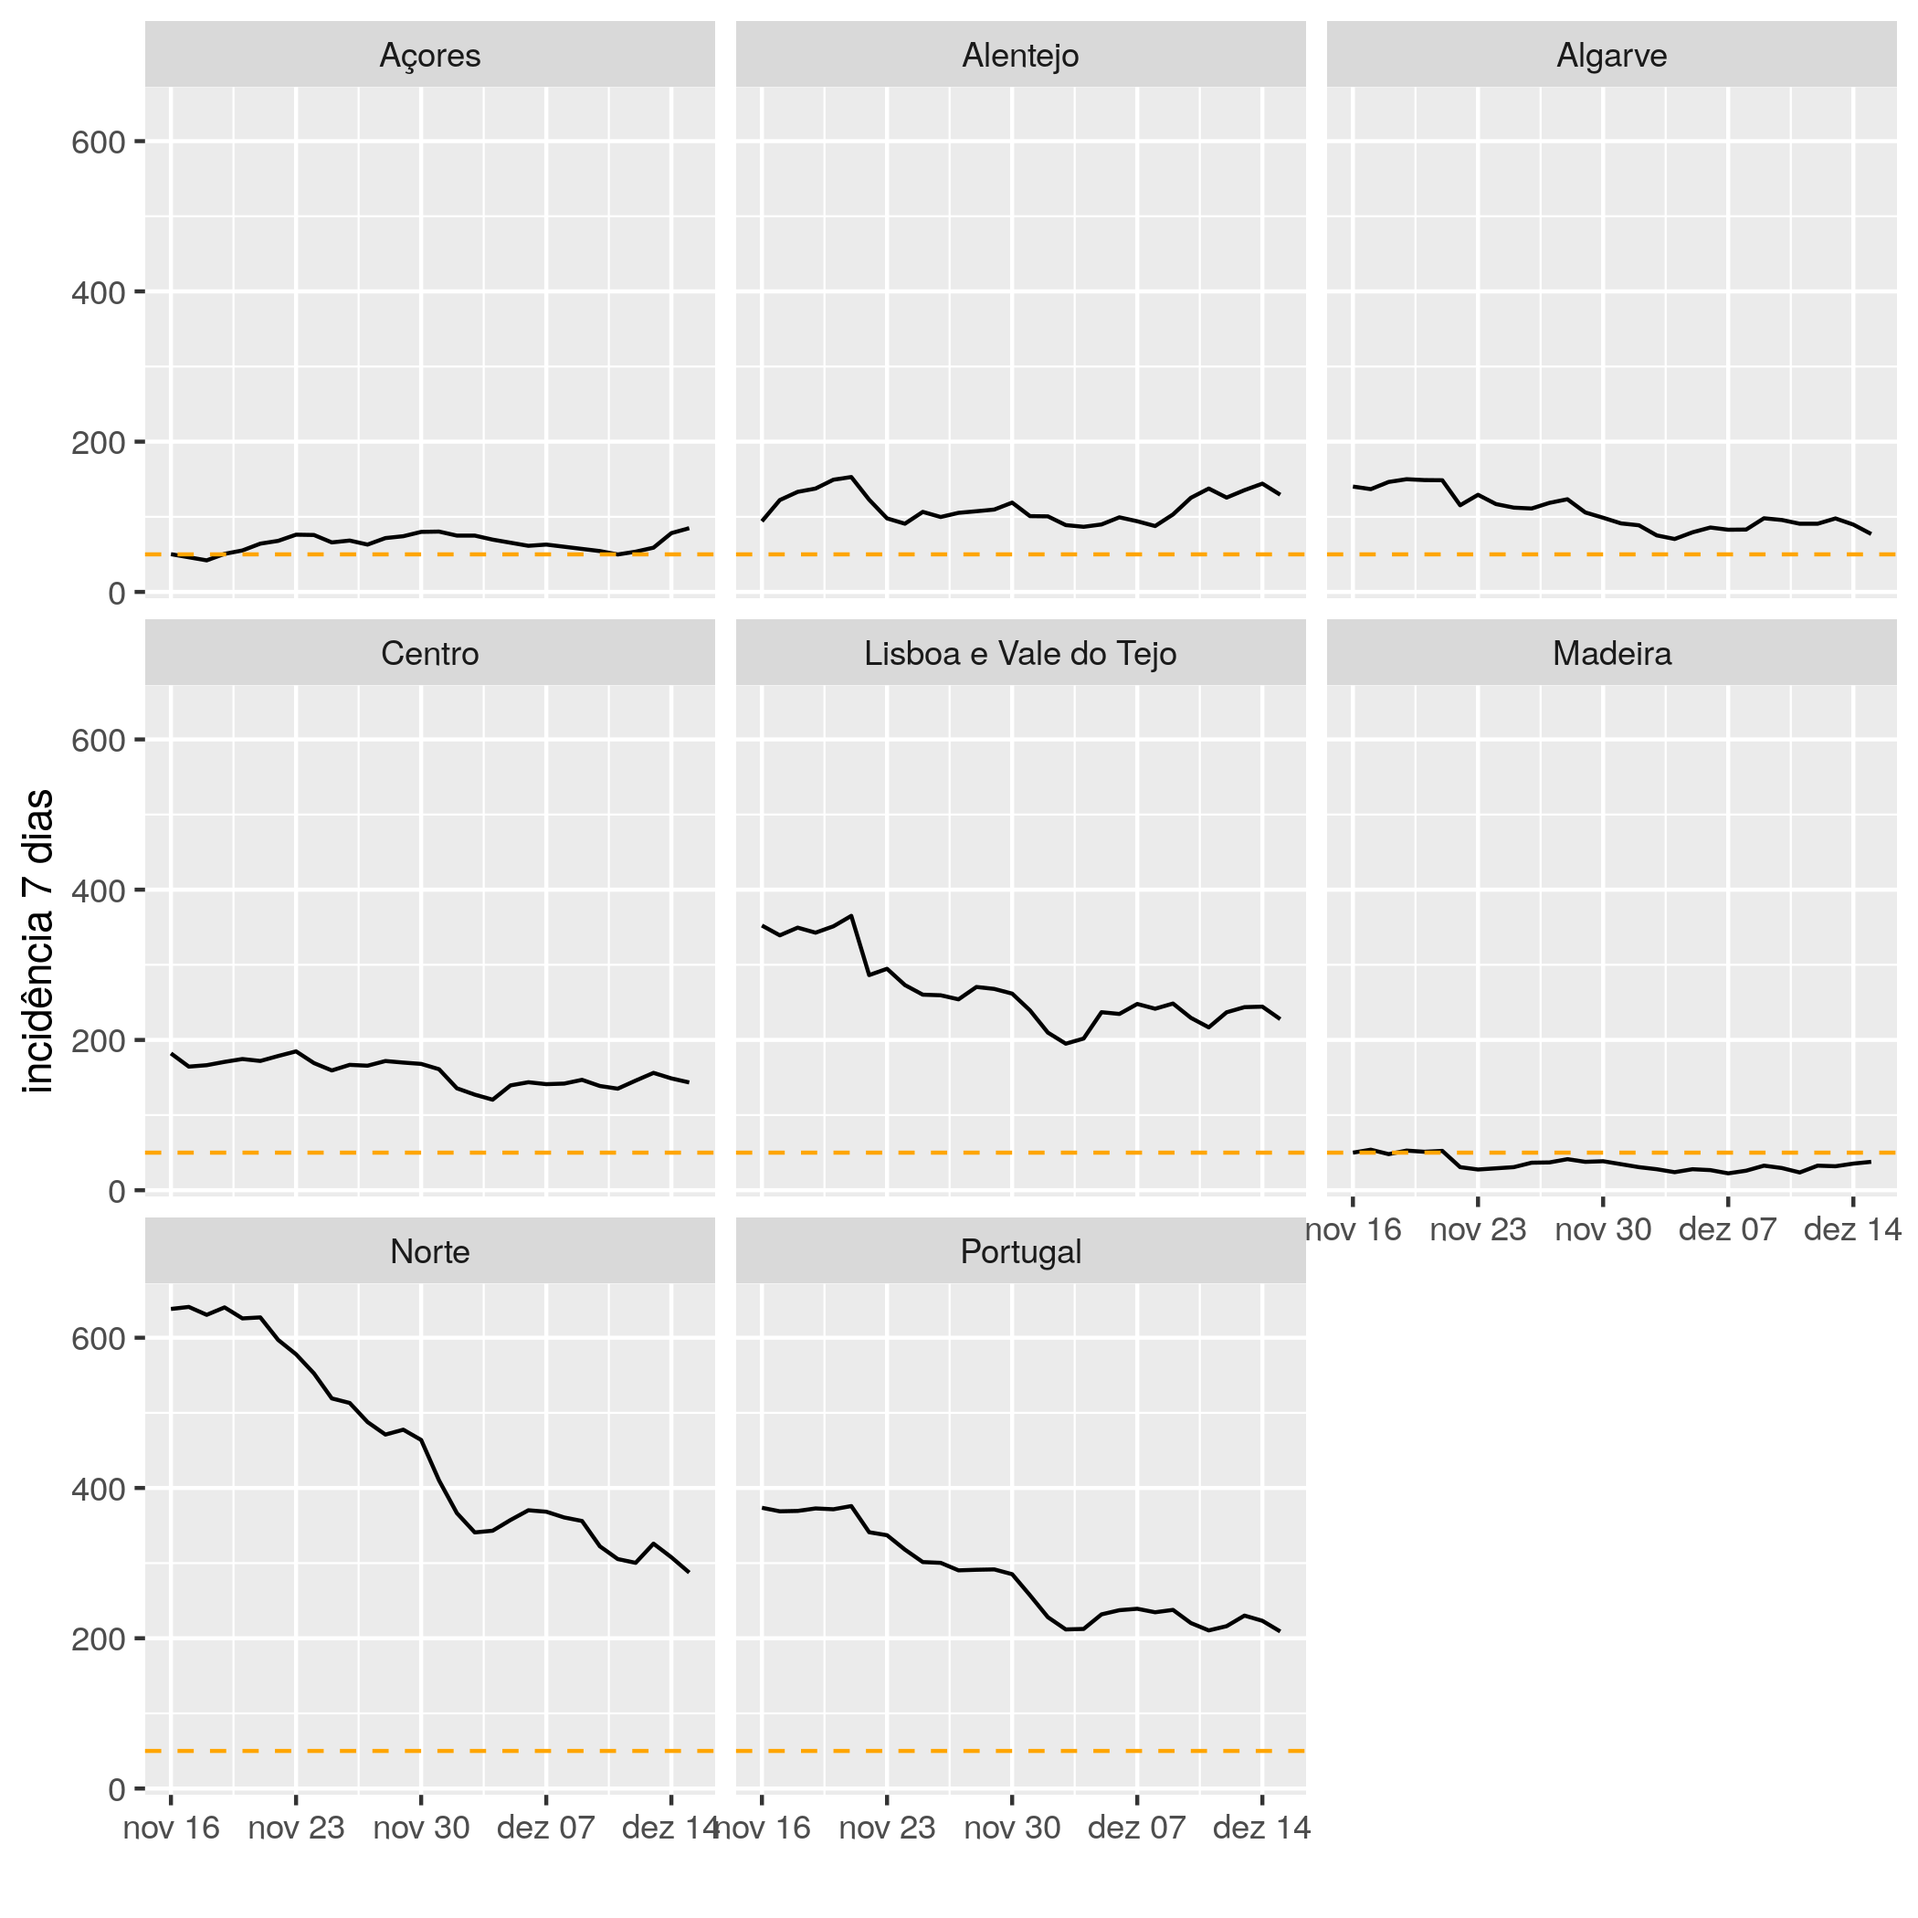
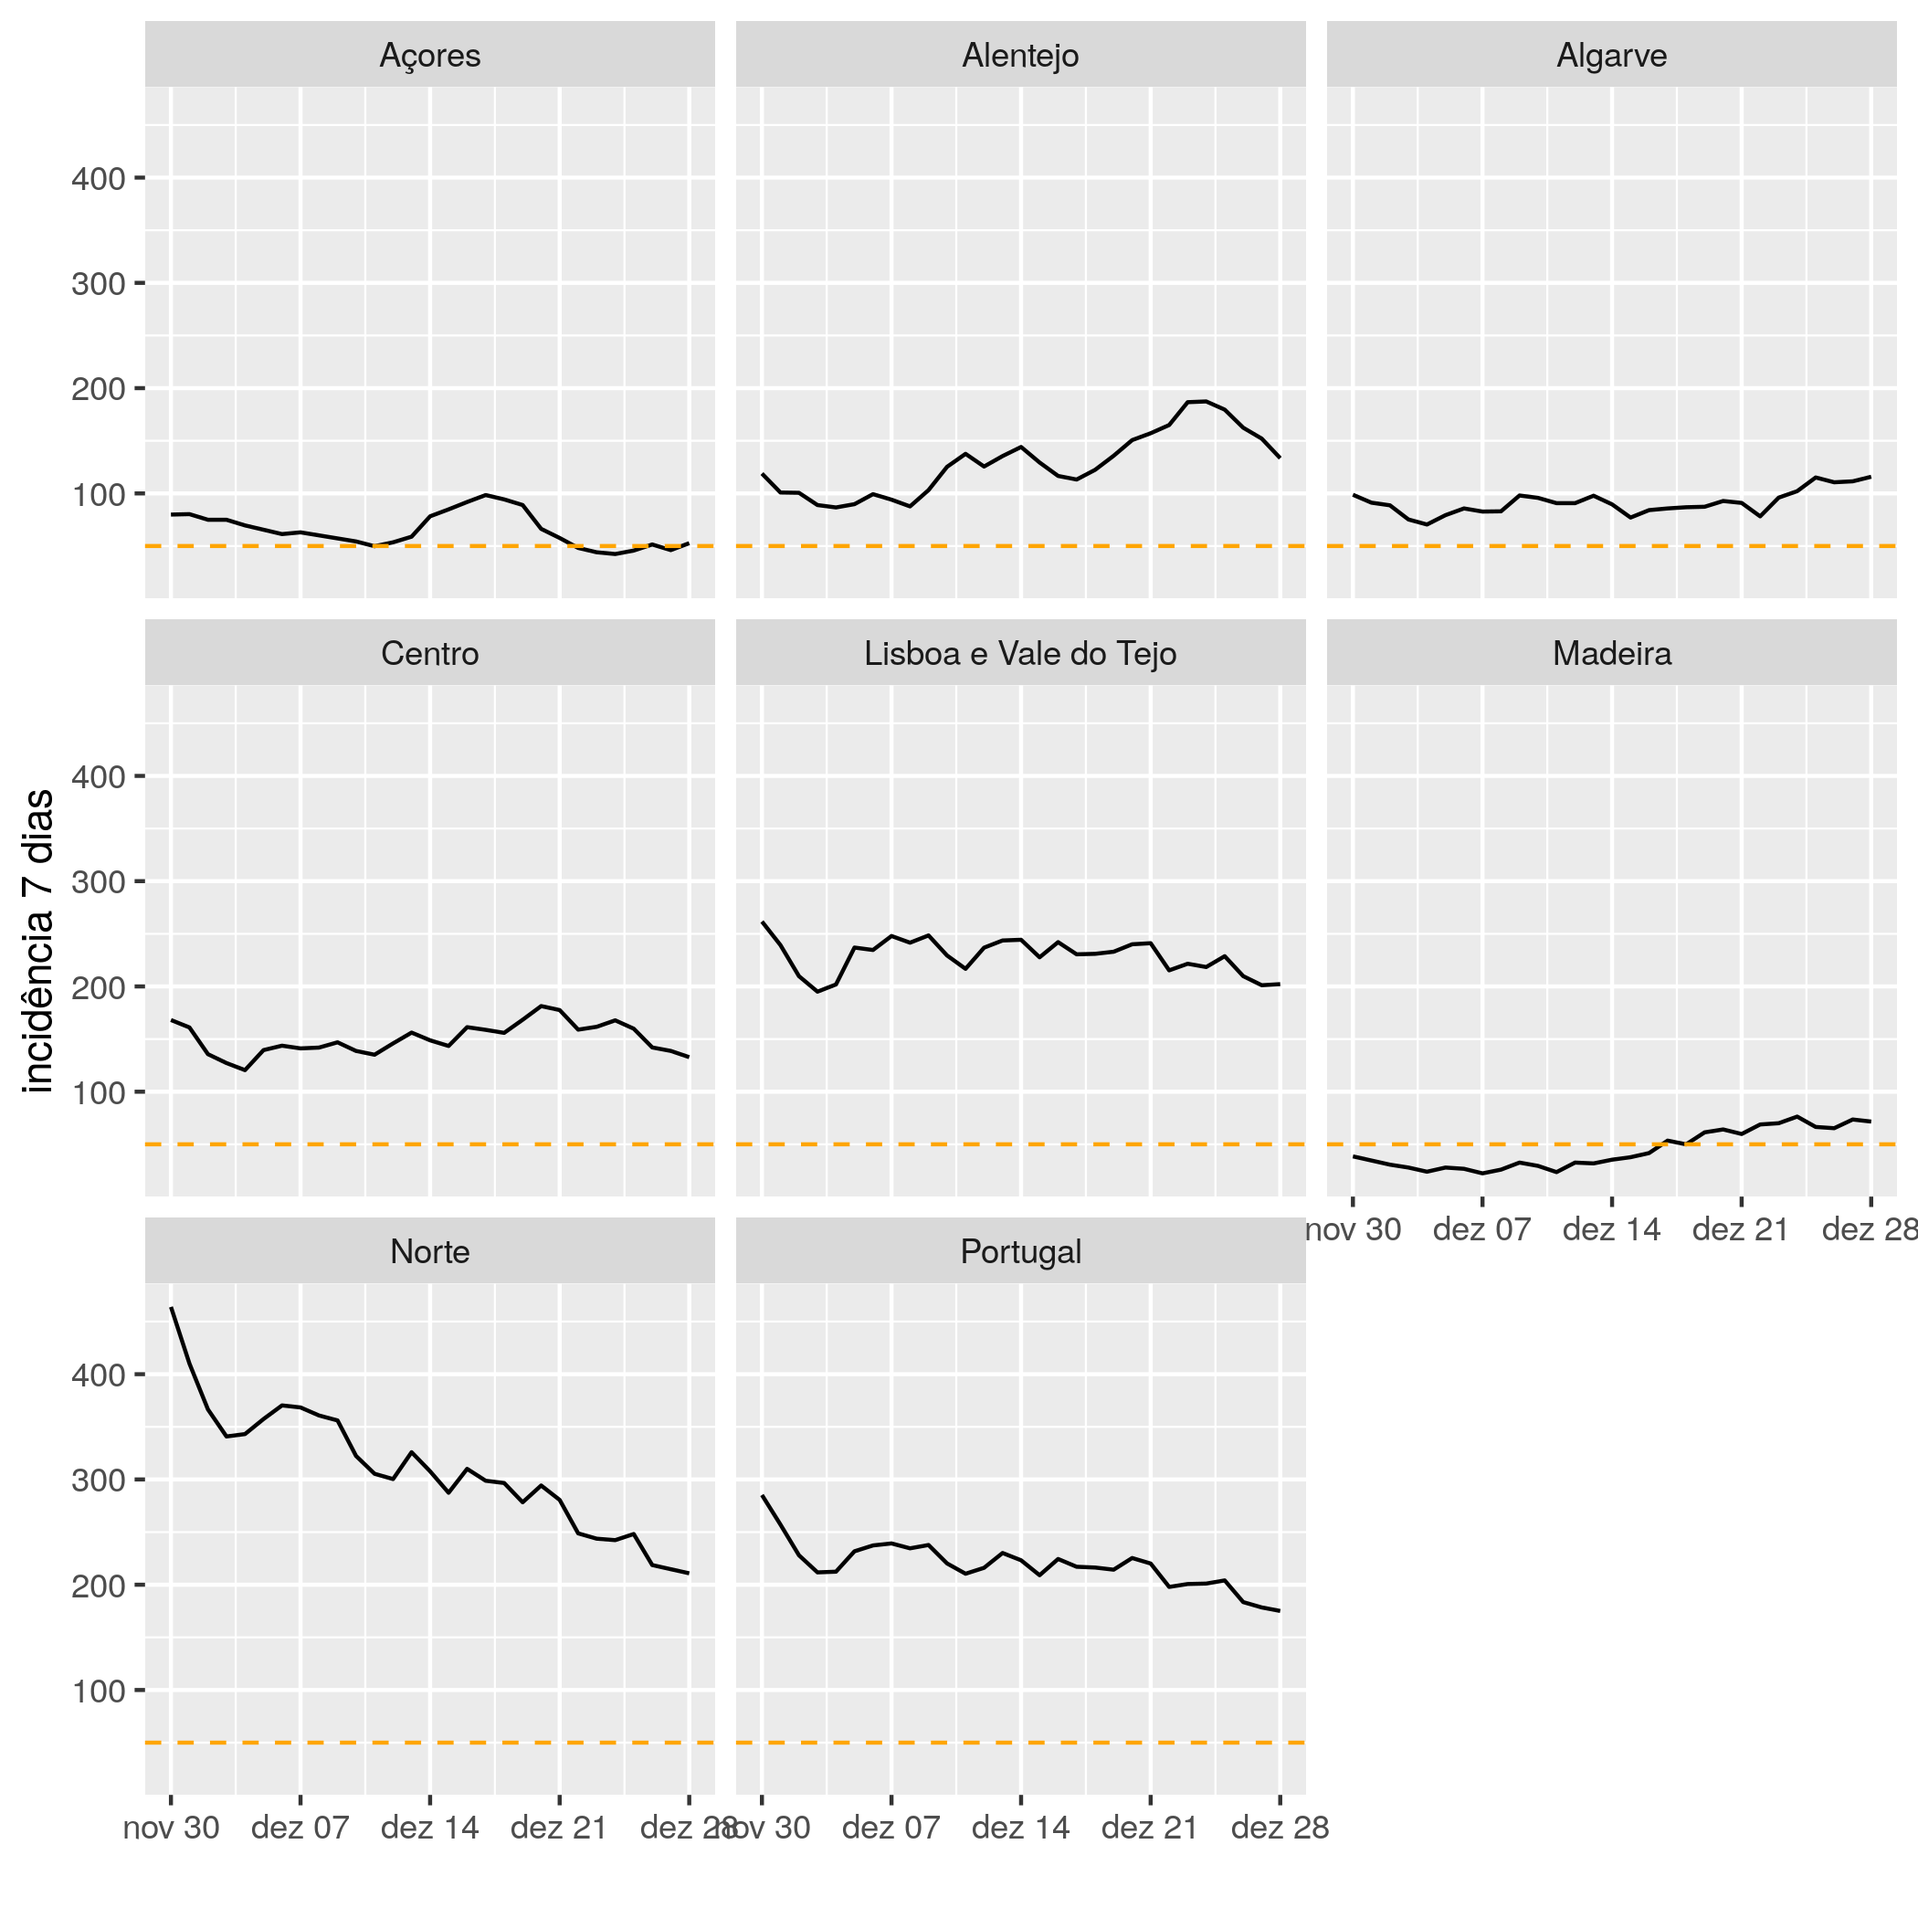
dados do natal

diff --git a/README.md b/README.md
@@ -1,7 +1,7 @@
 # Contexto
 A incidência por 100000 habitantes em 7 dias é o valor de referência para decretar regiões de risco pelas autoridades de saúde alemãs (valor charneira é 50). Gráficos atualizados diariamente. Para ajudar quem quer viajar para a Alemanha ou vir passar férias a Portugal.
 
-Dados mais recentes de 2020-12-15.
+Dados mais recentes de 2020-12-28.
 
 # Incidência por 100000 habitantes em 7 dias
 ## Últimos 30 dias
